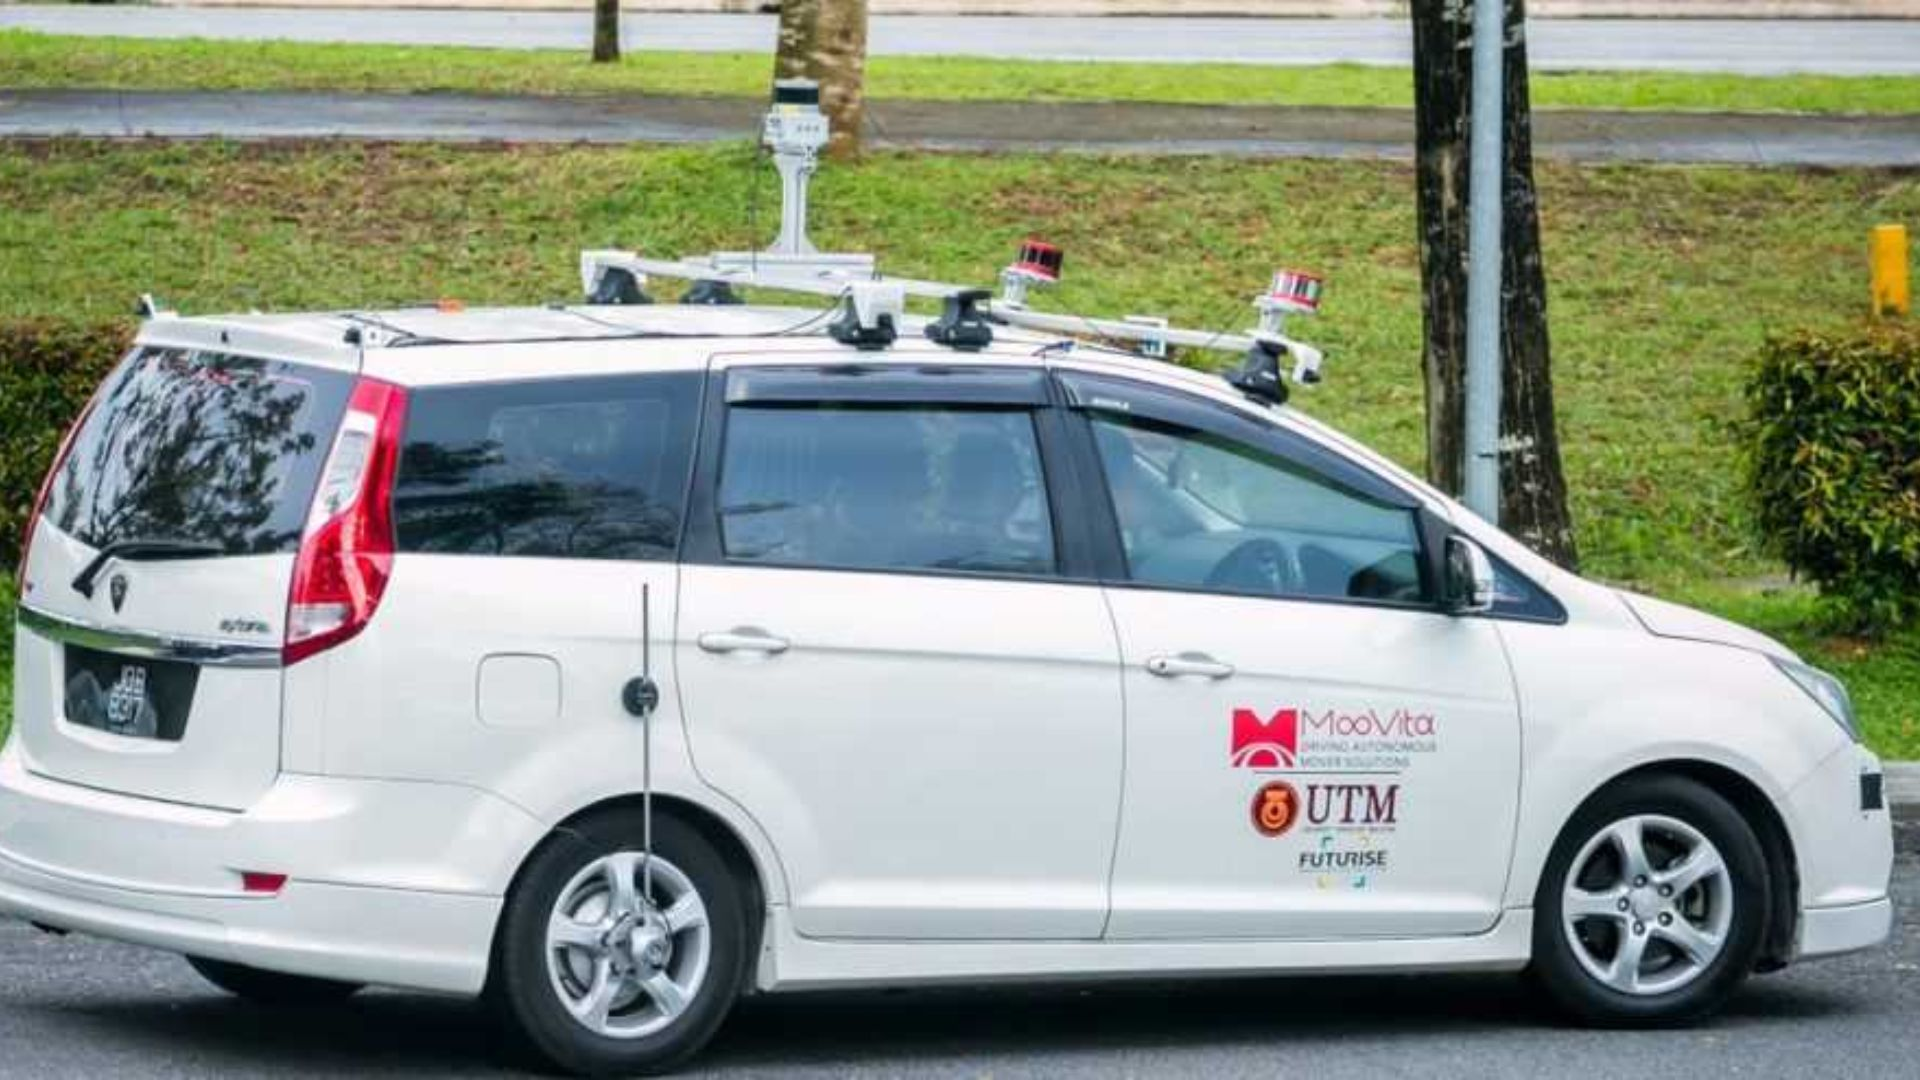
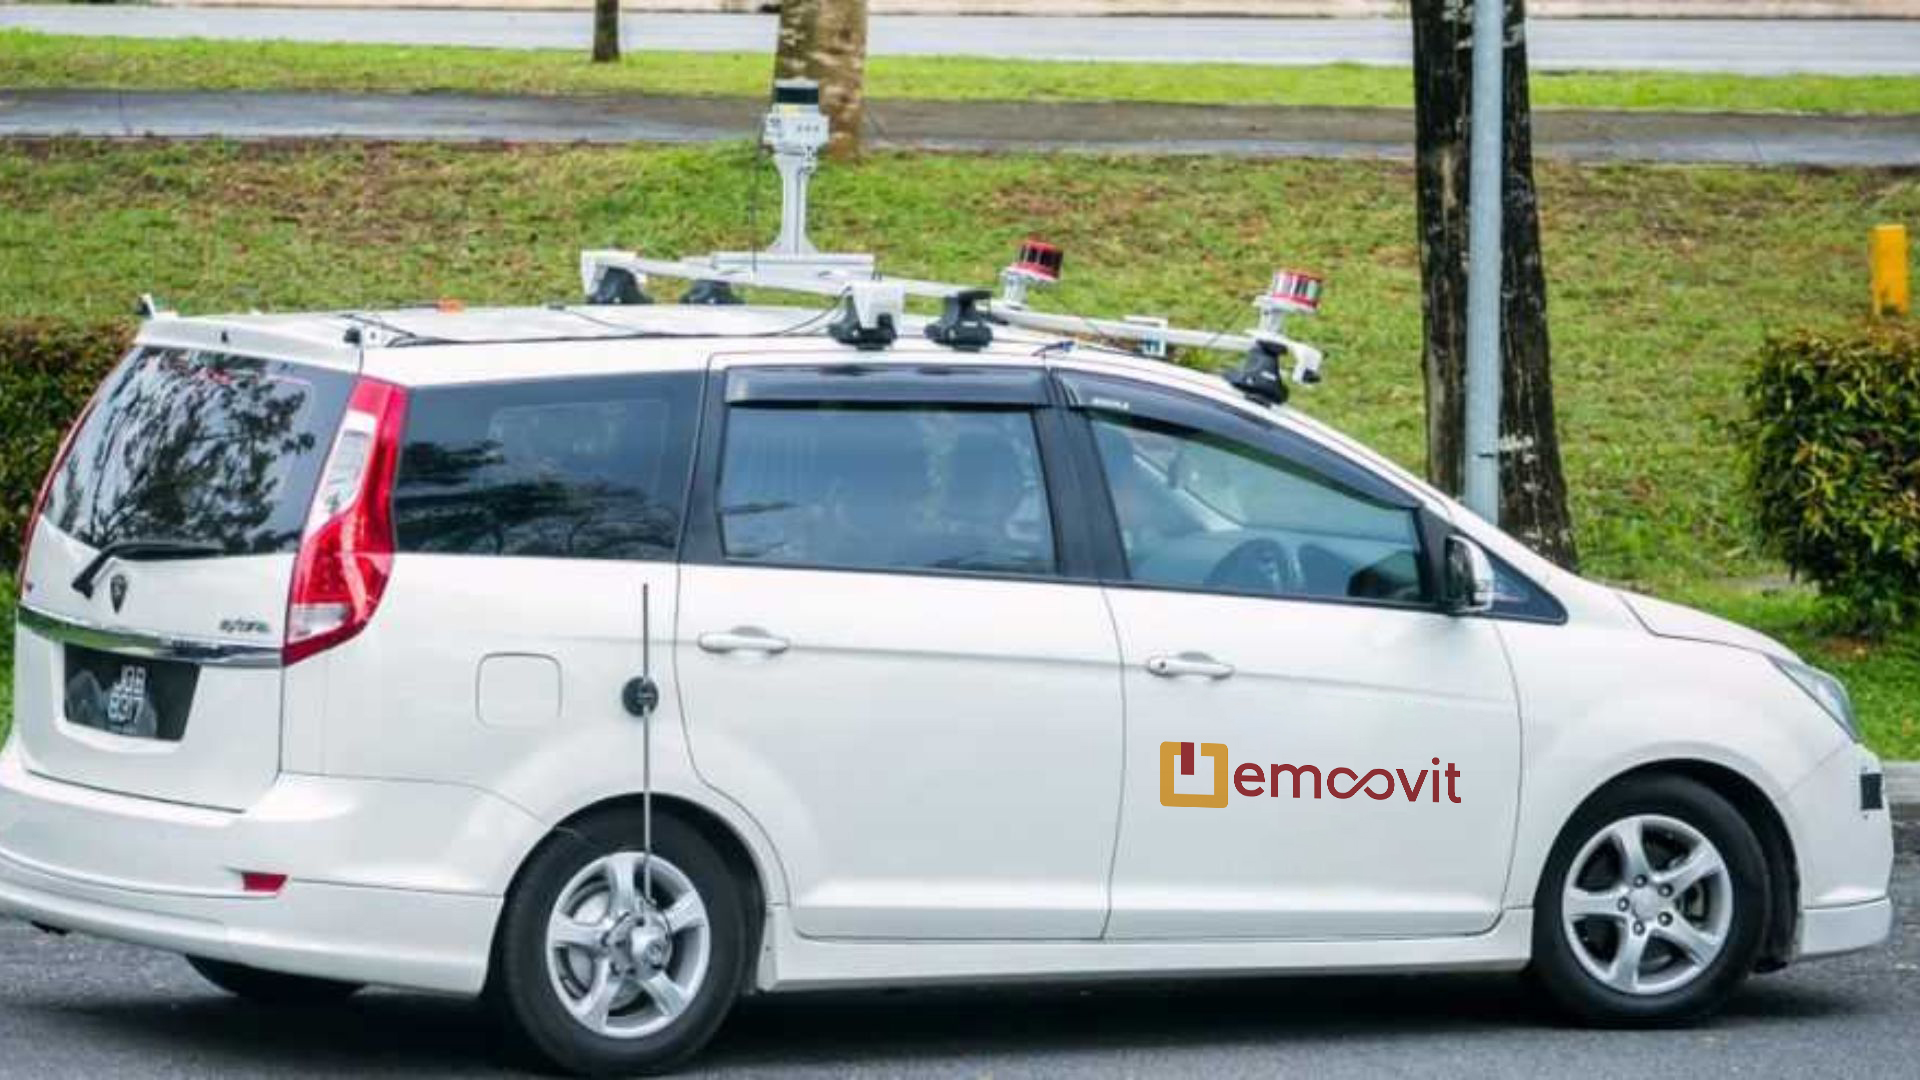
update

Changed region(s): [[0.5938, 0.6417, 0.7812, 0.825]]

diff --git a/index.html b/index.html
@@ -183,7 +183,7 @@
             <div class="card-item">
               <div class="row">
                 <div class="col-xl-5">
-                  <div class="card-bg"><img src="assets/img/Autonomous Grabber_V3.pptx.jpg" alt=""></div>
+                  <div class="card-bg"><img src="assets/img/preve_psas.jpg" alt=""></div>
                 </div>
                 <div class="col-xl-7 d-flex align-items-center">
                   <div class="card-body">
@@ -225,7 +225,7 @@
 
       <!-- Section Title -->
       <div class="container section-title" data-aos="fade-up">
-        <h2>MAKING THE FUTURE SAFER AND MORE EFFICIENT WITH AVS</h2>
+        <h3>MAKING THE FUTURE SAFER AND MORE EFFICIENT WITH AUTONOMOUS VEHICLES</h3>
         <p>Ever since the first national car launch in 1983, the automotive industry has been one of the major
           contributors to the economy of Malaysia. Over the decades, we have experienced growth and innovation. As
           electric vehicles and plug-in hybrids shape our future of transport, we are introducing the next evolution in

diff --git a/putrajaya.html b/putrajaya.html
@@ -97,7 +97,7 @@
               <h3 class="widget-title pt-3 pb-3">Putrajaya Stop Point</h3>
               <a href="#" class="active">Perbadanan Putrajaya</a>
               <a href="#" class="active">Menara Perkeso</a>
-              <a href="#" class="active">Lembaga Pembiayaan Rumah</a>
+              <a href="#" class="active">Lembaga Pembiayaan Perumahan Sektor Awam</a>
               <a href="#" class="active">Istana Kehakiman</a>
               <a href="#" class="active">Kementerian Pembangunan Luar Bandar</a>
               <a href="#" class="active">Kementerian Pertanian/ Kementerian Pengangkutan</a>
